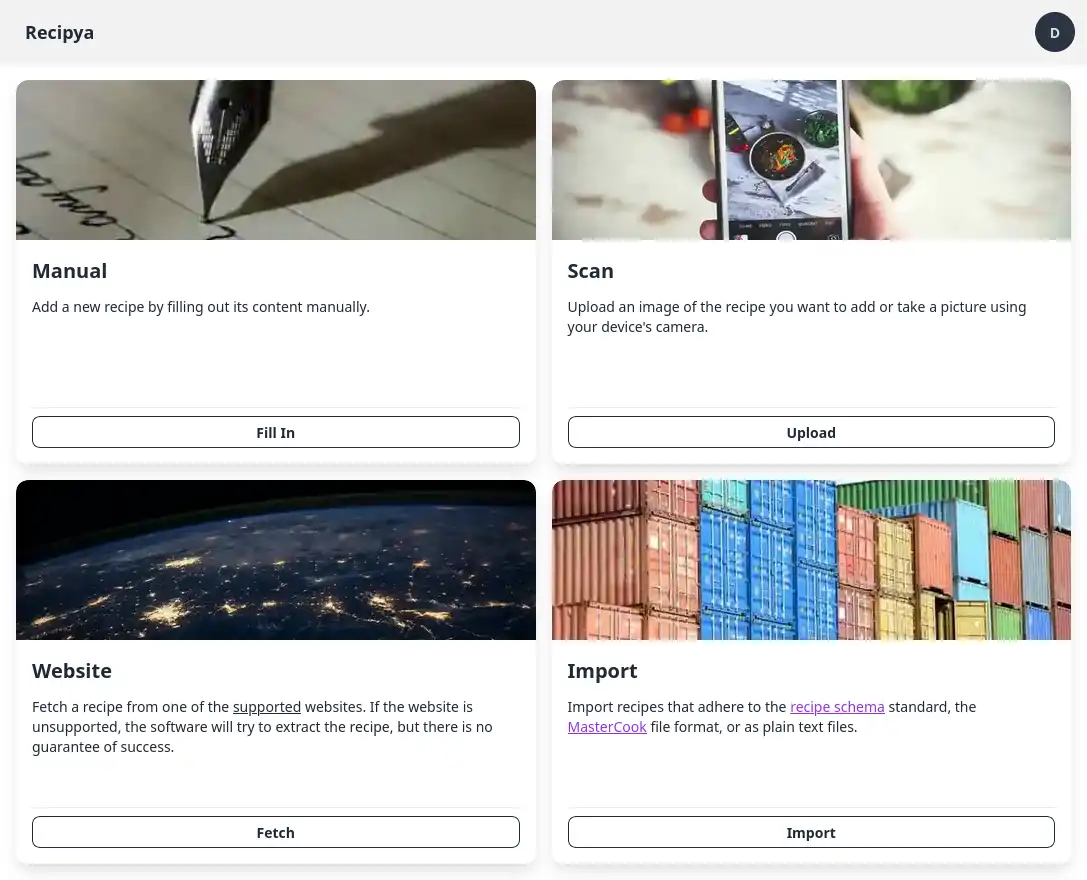
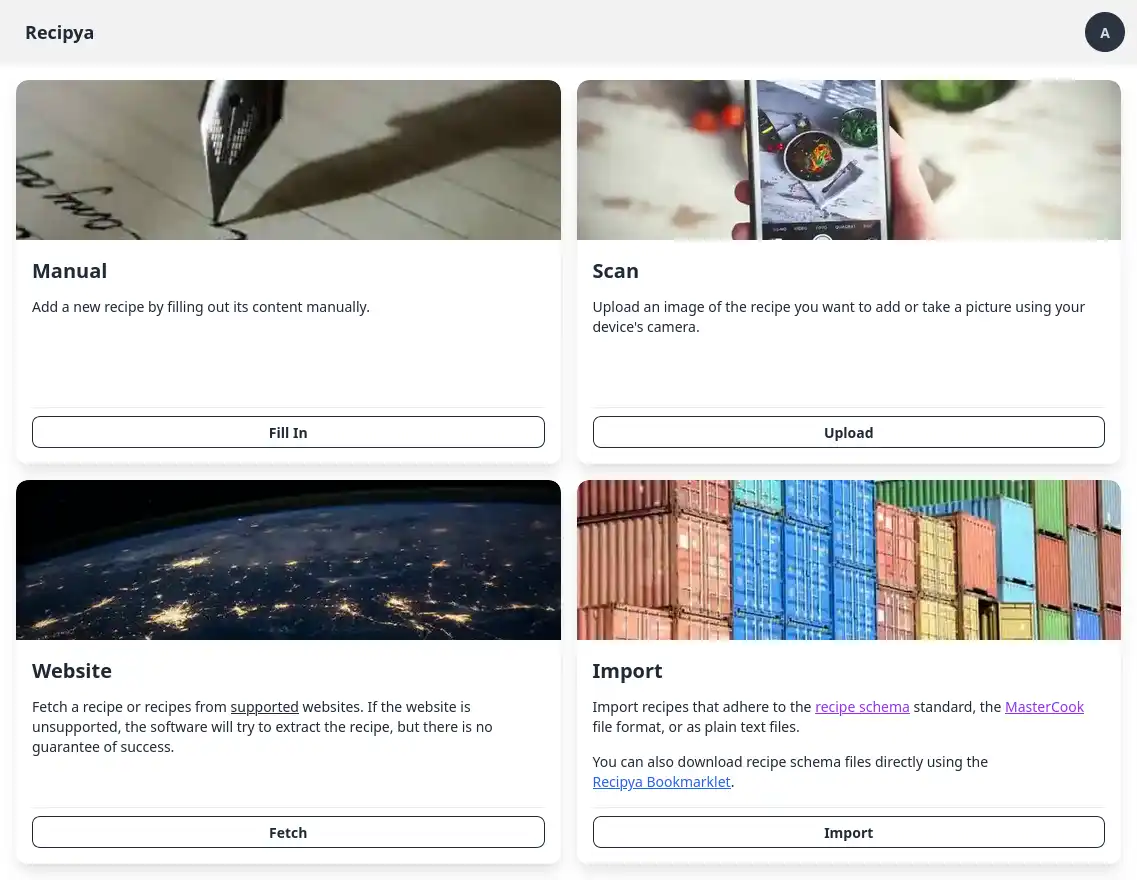
Add bookmarklet script (#224)

diff --git a/docs/website/content/docs/features/recipes/add.md b/docs/website/content/docs/features/recipes/add.md
@@ -6,7 +6,7 @@ prev: /docs/features/recipes
 
 You can add a recipe by clicking the blue **Add Recipe** in the middle of the application bar.
 
-![](images/.webp)
+![](images/add-recipe.webp)
 
 ## Adding Recipes
 
@@ -77,3 +77,24 @@ You can upload either a single file or a zip archive containing multiple recipes
 The recipes in a zip file may be organized by folder. Each folder may contain the `.json` recipe file and an image 
 file. All other files in a folder will be ignored during processing. Here is an 
 [example](https://sea.musicavis.ca/f/683b9b9a7cc84e1bac0c/?dl=1) of how such zip may look like.
+
+#### Recipya Bookmarklet
+
+The Recipya bookmarklet allows a user to run a JavaScript snippet from their browser that extracts a recipe from a webpage.
+
+It's for websites that both:
+- can't be scraped via a server request, i.e. have something like captcha or bot detection
+- that have json+ld recipe script snippets on their page
+
+To get the bookmarklet:
+1. Access `/recipes/add`
+2. Bookmark the `Recipya Bookmarklet` link in the `Import` card.
+
+To use it:
+1. Open a recipe webpage, e.g. [double banana nut bread](https://www.allrecipes.com/recipe/231961/double-banana-nut-bread/)
+2. Click the bookmarklet
+3. A JSON file is downloaded when it succeeds.
+
+You can then import the extracted recipe from `Add recipe -> Import`.
+
+![](images/recipya-bookmarklet.gif)

diff --git a/docs/website/content/about/changelog/v1.1.0.md b/docs/website/content/about/changelog/v1.1.0.md
@@ -79,6 +79,25 @@ Updated all Go and NPM packages.
 
 ## Recipes
 
+### Recipya Bookmarklet
+
+The Recipya bookmarklet allows a user to run a JavaScript snippet from their browser that extracts a recipe from a webpage. 
+
+It's for websites that both:
+- can't be scraped via a server request, i.e. have something like captcha or bot detection
+- that have json+ld recipe script snippets on their page
+
+To get the bookmarklet:
+1. Access `/recipes/add` 
+2. Bookmark the `Recipya Bookmarklet` link in the `Import` card.
+
+To use it:
+1. Open a recipe webpage, e.g. [double banana nut bread](https://www.allrecipes.com/recipe/231961/double-banana-nut-bread/)
+2. Click the bookmarklet
+3. A JSON file is downloaded when it succeeds.
+
+You can then import the extracted recipe from `Add recipe -> Import`.
+
 ### Import 
 
 #### Text Files
